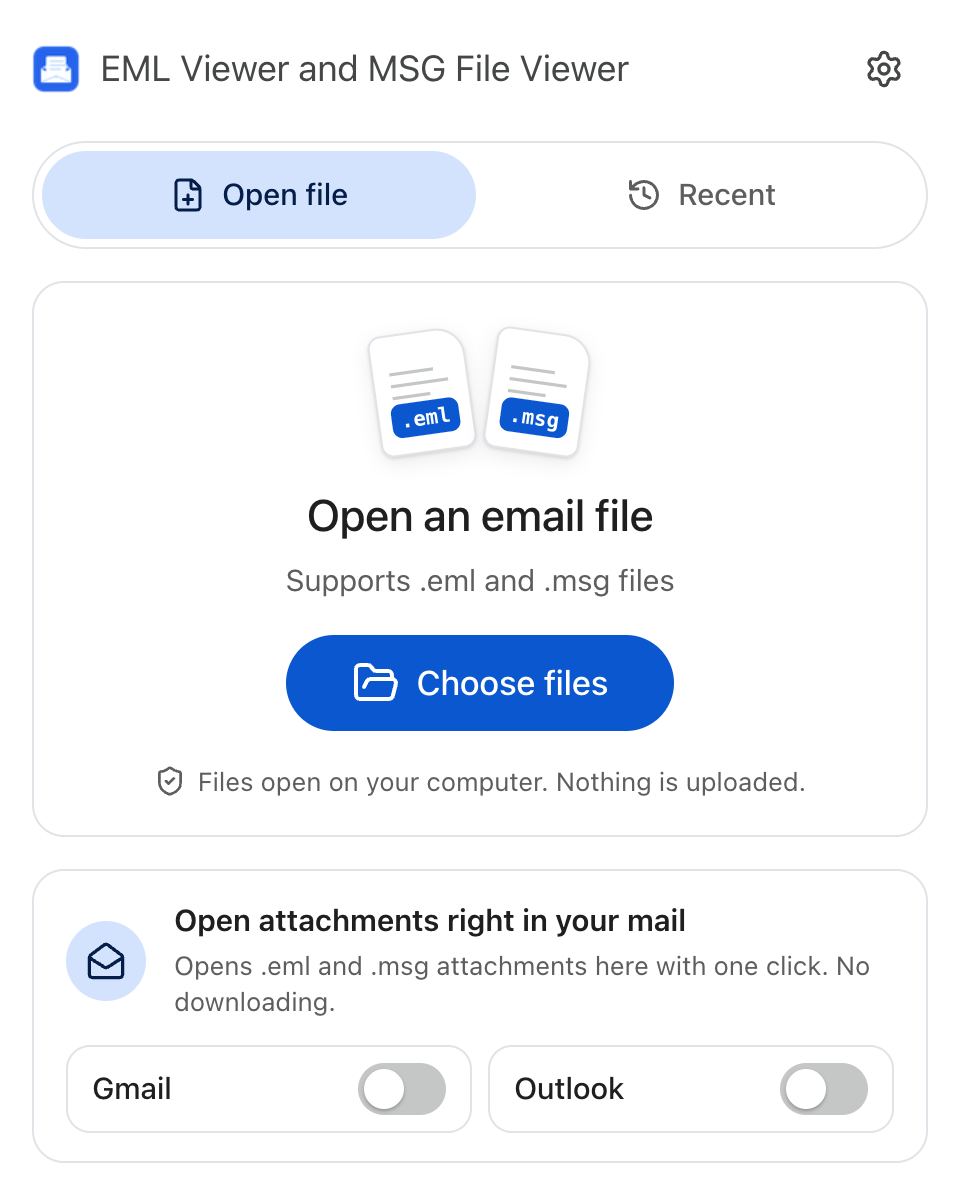
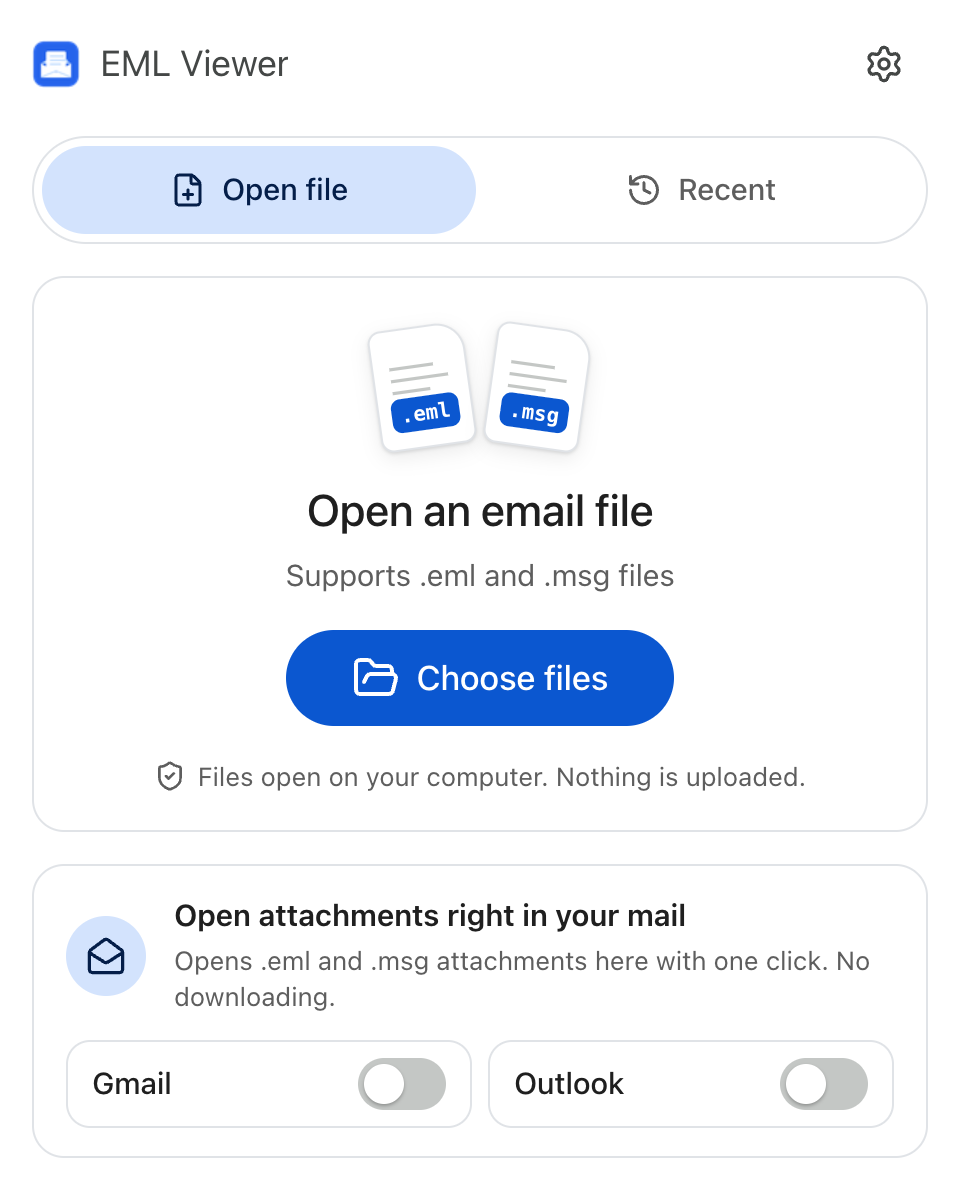
Publish site from eml-viewer/site (cc9599d)

diff --git a/index.html b/index.html
@@ -3,8 +3,8 @@
 <head>
   <meta charset="utf-8">
   <meta name="viewport" content="width=device-width, initial-scale=1">
-  <title>EML Viewer and MSG File Viewer is installed</title>
-  <meta name="description" content="Pin EML Viewer and MSG File Viewer to your toolbar and open .eml and .msg email files in two clicks.">
+  <title>EML Viewer is installed</title>
+  <meta name="description" content="Pin EML Viewer to your toolbar and open .eml and .msg email files in two clicks.">
   <meta name="robots" content="noindex">
   <meta name="theme-color" content="#2563eb">
   <link rel="icon" href="assets/favicon.png" type="image/png">
@@ -86,7 +86,7 @@
     </div>
 
     <div class="shot-wrap shot-main" data-hint="pin">
-      <svg class="shot" preserveAspectRatio="xMaxYMin slice" viewBox="-2 -2 1204 434" role="img" aria-label="The puzzle icon at the top right of the browser and the extensions menu with a pin next to EML Viewer and MSG File Viewer">
+      <svg class="shot" preserveAspectRatio="xMaxYMin slice" viewBox="-2 -2 1204 434" role="img" aria-label="The puzzle icon at the top right of the browser and the extensions menu with a pin next to EML Viewer">
         <use href="#window" width="1200" height="540" clip-path="url(#winPin)"/>
         <circle cx="1088" cy="71" r="18" fill="#e8f0fe"/>
         <use href="#puzzle" transform="translate(1076 59)"/>
@@ -98,7 +98,7 @@
         <text x="686" y="200" font-size="16.5" fill="#3c4043">These extensions don’t need to see and change</text>
         <text x="686" y="221" font-size="16.5" fill="#3c4043">information on this site.</text>
         <image href="assets/icon128.png" x="686" y="236" width="32" height="32"/>
-        <text x="728" y="259" font-size="19" fill="#202124">EML Viewer and MSG File Viewer</text>
+        <text x="728" y="259" font-size="19" fill="#202124">EML Viewer</text>
         <g fill="none" stroke="#5f6368" stroke-width="2" stroke-linecap="round" stroke-linejoin="round" transform="translate(1082 237) scale(1.25)">
           <path d="M12 17v5"/><path d="M9 10.76a2 2 0 0 1-1.11 1.79l-1.78.9A2 2 0 0 0 5 15.24V16a1 1 0 0 0 1 1h12a1 1 0 0 0 1-1v-.76a2 2 0 0 0-1.11-1.79l-1.78-.9A2 2 0 0 1 15 10.76V7a1 1 0 0 1 1-1 2 2 0 0 0 0-4H8a2 2 0 0 0 0 4 1 1 0 0 1 1 1z"/>
         </g>
@@ -182,7 +182,7 @@
 
 <footer class="site-footer">
   <div class="wrap">
-    <span>EML Viewer and MSG File Viewer</span>
+    <span>EML Viewer</span>
     <a href="privacy/">Privacy policy</a>
   </div>
 </footer>

diff --git a/privacy/index.html b/privacy/index.html
@@ -3,7 +3,7 @@
 <head>
   <meta charset="utf-8">
   <meta name="viewport" content="width=device-width, initial-scale=1">
-  <title>Privacy policy · EML Viewer and MSG File Viewer</title>
+  <title>Privacy policy · EML Viewer</title>
   <meta name="description" content="This extension opens email files on your computer. Nothing is uploaded or collected.">
   <link rel="icon" href="../assets/favicon.png" type="image/png">
   <link rel="stylesheet" href="../assets/style.css">
@@ -11,7 +11,7 @@
 <body>
 <header class="site-header">
   <div class="wrap">
-    <a class="brand" href="../"><img src="../assets/icon128.png" alt="" width="32" height="32">EML Viewer and MSG File Viewer</a>
+    <a class="brand" href="../"><img src="../assets/icon128.png" alt="" width="32" height="32">EML Viewer</a>
   </div>
 </header>
 
@@ -19,7 +19,7 @@
   <h1>Privacy policy</h1>
   <p class="lead">Last updated: November 25, 2026</p>
 
-  <p>EML Viewer and MSG File Viewer is a Chrome extension that opens .eml and .msg email files. It works entirely in your browser. We don’t collect, store or sell any personal data.</p>
+  <p>EML Viewer is a Chrome extension that opens .eml and .msg email files. It works entirely in your browser. We don’t collect, store or sell any personal data.</p>
 
   <h2>Your email files</h2>
   <ul>
@@ -57,7 +57,7 @@
 
 <footer class="site-footer">
   <div class="wrap">
-    <span>EML Viewer and MSG File Viewer</span>
+    <span>EML Viewer</span>
     <a href="../">Getting started</a>
   </div>
 </footer>

diff --git a/welcome/index.html b/welcome/index.html
@@ -3,7 +3,7 @@
 <head>
   <meta charset="utf-8">
   <meta name="viewport" content="width=device-width, initial-scale=1">
-  <title>EML Viewer and MSG File Viewer</title>
+  <title>EML Viewer</title>
   <link rel="canonical" href="https://emlview.com/">
   <meta name="robots" content="noindex">
   <!-- The welcome page moved to https://emlview.com/ (2026-11-20). Older builds open /welcome/?pinned=…&id=…,
@@ -12,6 +12,6 @@
   <meta http-equiv="refresh" content="0; url=../">
 </head>
 <body>
-  <p><a href="../">EML Viewer and MSG File Viewer</a></p>
+  <p><a href="../">EML Viewer</a></p>
 </body>
 </html>

diff --git a/assets/welcome.js b/assets/welcome.js
@@ -7,7 +7,7 @@
 
 const STORE_IDS = []; // the Chrome Web Store ID goes here once the extension is published
 const POLL_MS = 1500;
-const NAME = 'EML Viewer and MSG File Viewer';
+const NAME = 'EML Viewer';
 const TITLES = { pin: `${NAME} is installed`, usage: `${NAME} is ready` };
 
 const params = new URLSearchParams(location.search);
